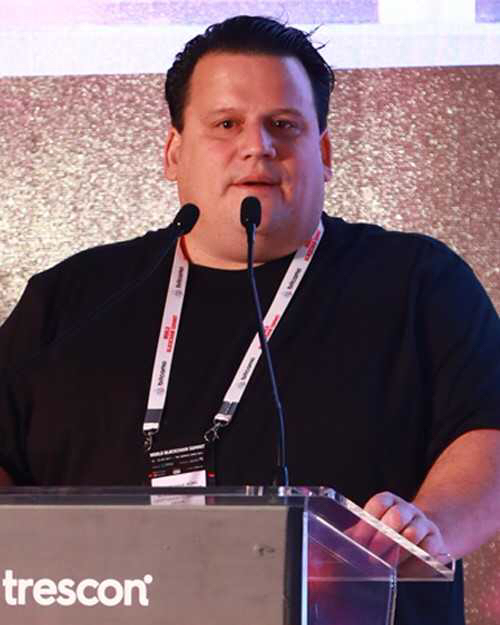
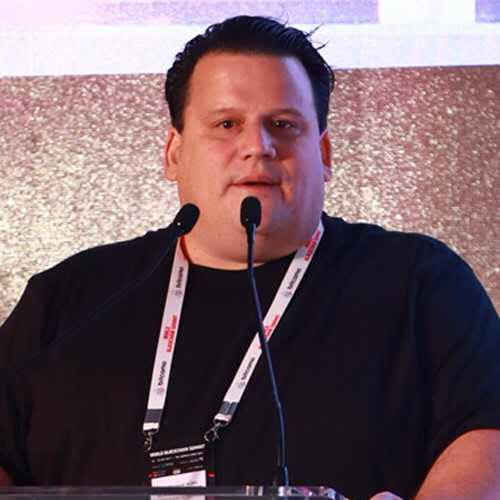
Adjusting bio images for consistency, adding a default image

diff --git a/src/components/TeamPage/content/bios.js b/src/components/TeamPage/content/bios.js
@@ -21,7 +21,7 @@ export const en = {
         email: '',
         picture: '',
         title: '',
-        bio: 'Houwu is one of the creators behind Ethereum, and the author of the Obelisk whitepaper which sits at the heart of our decentralized Internet and currency. He was a formerly a researcher at Tsinghua University.',
+        bio: 'Houwu is one of the creators behind Ethereum, and the author of the Obelisk whitepaper which sits at the heart of our decentralized Internet and currency. He was formerly a researcher at Tsinghua University.',
       },
       {
         name: 'Steve Leonard',
@@ -106,16 +106,16 @@ export const en = {
       {
         name: 'Simon Hobbs',
         email: '',
-        picture: 'simon.png',
+        picture: 'simon.jpg',
         title: 'Co-Founder of Gamification Giant Ltd.',
         bio: 'Hobbs has 28 years of high-level technical experience in delivering complex, high-volume IT projects on time and on budget. He began his career as an engineer on missile guidance software, and later moved into financial services, leading IT projects for Barclays Home Finance Mortgage, Swiss Bank and Cedel Bank. Simon holds a BSc in computer science from the University of Hertfordshire.',
       },
       {
         name: 'Amaury Hernandez Aguila',
         email: '',
-        picture: 'amaury.png',
+        picture: 'amaury.jpg',
         title: 'CX Developer',
-        bio: 'Amaury Aguila is a computer systems engineer with an expertise in expertise in machine learning and data science. He holds a master’s degree in Computer Science, and is currently pursuing a doctoral degree in computer science.',
+        bio: 'Amaury Aguila is a computer systems engineer with an expertise in machine learning and data science. He holds a master’s degree in Computer Science, and is currently pursuing a doctoral degree in computer science.',
       },
       {
         name: 'Evan Lin',
@@ -139,7 +139,7 @@ export const en = {
       {
         name: 'Mike Doty',
         title: 'Co-Founder of Ark',
-        picture: 'mike.png',
+        picture: 'mike.jpg',
         bio: 'Mike Doty has over 25 years of experience in mechanical engineering and design, including manufacturing, design, analysis, testing, and systems integration. Doty holds a BS Degree in Engineering and Applied Science from the California Institute of Technology. He is a Certified Quality Engineer (CQE) and Certified Reliability Engineer (CRE).',
       },
       {
@@ -157,14 +157,14 @@ export const en = {
       {
         name: 'Dr. John Henry Clippinger',
         title: 'Chief Innovation Officer | Founder of Swytch.io | Founder of Tokencommons.org | Scientist at the MIT Media Lab',
-        picture: 'john.png',
+        picture: 'john.jpg',
         bio: 'John Henry Clippinger is currently a research scientist at the MIT Media Lab’s Human Dynamics Group. He is also Co-Founder and Executive Director of ID3. Previously, Dr. Clippinger was Founder and Co-director of The Law Lab at Harvard University. He is also a member of the eG8 Forum and the Global Leadership Telco Council and the Risk Analysis Network for the World Economic Forum.',
       },
       {
         name: 'Patrick Dai',
         title: 'Founder and CEO of Qtum',
         picture: 'patrick.jpg',
-        bio: 'Founder and CEO of Qtum Dai graduated from Draper University and departed from the Chinese Academy of Sciences before completing the doctoral program. Patrick formerly worked at Alibaba. He has expertise in blockchain technology development and remains committed to its advancement.',
+        bio: 'Dai graduated from Draper University and departed from the Chinese Academy of Sciences before completing the doctoral program. Patrick formerly worked at Alibaba. He has expertise in blockchain technology development and remains committed to its advancement.',
       },
       {
         name: 'Josh Ogle',
@@ -181,13 +181,13 @@ export const en = {
       {
         name: 'Alphabit',
         title: 'Digital Currency Fund',
-        picture: 'alphabit.png',
+        picture: 'alphabit.jpg',
         bio: 'Co-founded by Liam Robertson, a former currency trader at hedge fund Light Peak Capital in London, Alphabit is $300 million fund that operates as a cross between an open-ended mutual fund and a hedge fund. Alphabit’s previous investments include Videocoin and Stormx.',
       },
       {
         name: 'TokenKey',
         title: '',
-        picture: 'tokenkey.png',
+        picture: 'tokenkey.jpg',
         bio: 'TokenKey is an end-to-end solution for ICO and token launches.',
       },
     ],
@@ -217,7 +217,7 @@ export const zh = {
         email: '',
         picture: '',
         title: '',
-        bio: 'Houwu is one of the creators behind Ethereum, and the author of the Obelisk whitepaper which sits at the heart of our decentralized Internet and currency. He was a formerly a researcher at Tsinghua University.',
+        bio: 'Houwu is one of the creators behind Ethereum, and the author of the Obelisk whitepaper which sits at the heart of our decentralized Internet and currency. He was formerly a researcher at Tsinghua University.',
       },
       {
         name: 'Steve Leonard',
@@ -302,16 +302,16 @@ export const zh = {
       {
         name: 'Simon Hobbs',
         email: '',
-        picture: 'simon.png',
+        picture: 'simon.jpg',
         title: 'Co-Founder of Gamification Giant Ltd.',
         bio: 'Hobbs has 28 years of high-level technical experience in delivering complex, high-volume IT projects on time and on budget. He began his career as an engineer on missile guidance software, and later moved into financial services, leading IT projects for Barclays Home Finance Mortgage, Swiss Bank and Cedel Bank. Simon holds a BSc in computer science from the University of Hertfordshire.',
       },
       {
         name: 'Amaury Hernandez Aguila',
         email: '',
-        picture: 'amaury.png',
+        picture: 'amaury.jpg',
         title: 'CX Developer',
-        bio: 'Amaury Aguila is a computer systems engineer with an expertise in expertise in machine learning and data science. He holds a master’s degree in Computer Science, and is currently pursuing a doctoral degree in computer science.',
+        bio: 'Amaury Aguila is a computer systems engineer with an expertise in machine learning and data science. He holds a master’s degree in Computer Science, and is currently pursuing a doctoral degree in computer science.',
       },
       {
         name: 'Evan Lin',
@@ -335,7 +335,7 @@ export const zh = {
       {
         name: 'Mike Doty',
         title: 'Co-Founder of Ark',
-        picture: 'mike.png',
+        picture: 'mike.jpg',
         bio: 'Mike Doty has over 25 years of experience in mechanical engineering and design, including manufacturing, design, analysis, testing, and systems integration. Doty holds a BS Degree in Engineering and Applied Science from the California Institute of Technology. He is a Certified Quality Engineer (CQE) and Certified Reliability Engineer (CRE).',
       },
       {
@@ -353,14 +353,14 @@ export const zh = {
       {
         name: 'Dr. John Henry Clippinger',
         title: 'Chief Innovation Officer | Founder of Swytch.io | Founder of Tokencommons.org | Scientist at the MIT Media Lab',
-        picture: 'john.png',
+        picture: 'john.jpg',
         bio: 'John Henry Clippinger is currently a research scientist at the MIT Media Lab’s Human Dynamics Group. He is also Co-Founder and Executive Director of ID3. Previously, Dr. Clippinger was Founder and Co-director of The Law Lab at Harvard University. He is also a member of the eG8 Forum and the Global Leadership Telco Council and the Risk Analysis Network for the World Economic Forum.',
       },
       {
         name: 'Patrick Dai',
         title: 'Founder and CEO of Qtum',
         picture: 'patrick.jpg',
-        bio: 'Founder and CEO of Qtum Dai graduated from Draper University and departed from the Chinese Academy of Sciences before completing the doctoral program. Patrick formerly worked at Alibaba. He has expertise in blockchain technology development and remains committed to its advancement.',
+        bio: 'Dai graduated from Draper University and departed from the Chinese Academy of Sciences before completing the doctoral program. Patrick formerly worked at Alibaba. He has expertise in blockchain technology development and remains committed to its advancement.',
       },
       {
         name: 'Josh Ogle',
@@ -377,13 +377,13 @@ export const zh = {
       {
         name: 'Alphabit',
         title: 'Digital Currency Fund',
-        picture: 'alphabit.png',
+        picture: 'alphabit.jpg',
         bio: 'Co-founded by Liam Robertson, a former currency trader at hedge fund Light Peak Capital in London, Alphabit is $300 million fund that operates as a cross between an open-ended mutual fund and a hedge fund. Alphabit’s previous investments include Videocoin and Stormx.',
       },
       {
         name: 'TokenKey',
         title: '',
-        picture: 'tokenkey.png',
+        picture: 'tokenkey.jpg',
         bio: 'TokenKey is an end-to-end solution for ICO and token launches.',
       },
     ],
@@ -413,7 +413,7 @@ export const ru = {
         email: '',
         picture: '',
         title: '',
-        bio: 'Houwu is one of the creators behind Ethereum, and the author of the Obelisk whitepaper which sits at the heart of our decentralized Internet and currency. He was a formerly a researcher at Tsinghua University.',
+        bio: 'Houwu is one of the creators behind Ethereum, and the author of the Obelisk whitepaper which sits at the heart of our decentralized Internet and currency. He was formerly a researcher at Tsinghua University.',
       },
       {
         name: 'Steve Leonard',
@@ -498,16 +498,16 @@ export const ru = {
       {
         name: 'Simon Hobbs',
         email: '',
-        picture: 'simon.png',
+        picture: 'simon.jpg',
         title: 'Co-Founder of Gamification Giant Ltd.',
         bio: 'Hobbs has 28 years of high-level technical experience in delivering complex, high-volume IT projects on time and on budget. He began his career as an engineer on missile guidance software, and later moved into financial services, leading IT projects for Barclays Home Finance Mortgage, Swiss Bank and Cedel Bank. Simon holds a BSc in computer science from the University of Hertfordshire.',
       },
       {
         name: 'Amaury Hernandez Aguila',
         email: '',
-        picture: 'amaury.png',
+        picture: 'amaury.jpg',
         title: 'CX Developer',
-        bio: 'Amaury Aguila is a computer systems engineer with an expertise in expertise in machine learning and data science. He holds a master’s degree in Computer Science, and is currently pursuing a doctoral degree in computer science.',
+        bio: 'Amaury Aguila is a computer systems engineer with an expertise in machine learning and data science. He holds a master’s degree in Computer Science, and is currently pursuing a doctoral degree in computer science.',
       },
       {
         name: 'Evan Lin',
@@ -531,7 +531,7 @@ export const ru = {
       {
         name: 'Mike Doty',
         title: 'Co-Founder of Ark',
-        picture: 'mike.png',
+        picture: 'mike.jpg',
         bio: 'Mike Doty has over 25 years of experience in mechanical engineering and design, including manufacturing, design, analysis, testing, and systems integration. Doty holds a BS Degree in Engineering and Applied Science from the California Institute of Technology. He is a Certified Quality Engineer (CQE) and Certified Reliability Engineer (CRE).',
       },
       {
@@ -549,14 +549,14 @@ export const ru = {
       {
         name: 'Dr. John Henry Clippinger',
         title: 'Chief Innovation Officer | Founder of Swytch.io | Founder of Tokencommons.org | Scientist at the MIT Media Lab',
-        picture: 'john.png',
+        picture: 'john.jpg',
         bio: 'John Henry Clippinger is currently a research scientist at the MIT Media Lab’s Human Dynamics Group. He is also Co-Founder and Executive Director of ID3. Previously, Dr. Clippinger was Founder and Co-director of The Law Lab at Harvard University. He is also a member of the eG8 Forum and the Global Leadership Telco Council and the Risk Analysis Network for the World Economic Forum.',
       },
       {
         name: 'Patrick Dai',
         title: 'Founder and CEO of Qtum',
         picture: 'patrick.jpg',
-        bio: 'Founder and CEO of Qtum Dai graduated from Draper University and departed from the Chinese Academy of Sciences before completing the doctoral program. Patrick formerly worked at Alibaba. He has expertise in blockchain technology development and remains committed to its advancement.',
+        bio: 'Dai graduated from Draper University and departed from the Chinese Academy of Sciences before completing the doctoral program. Patrick formerly worked at Alibaba. He has expertise in blockchain technology development and remains committed to its advancement.',
       },
       {
         name: 'Josh Ogle',
@@ -573,13 +573,13 @@ export const ru = {
       {
         name: 'Alphabit',
         title: 'Digital Currency Fund',
-        picture: 'alphabit.png',
+        picture: 'alphabit.jpg',
         bio: 'Co-founded by Liam Robertson, a former currency trader at hedge fund Light Peak Capital in London, Alphabit is $300 million fund that operates as a cross between an open-ended mutual fund and a hedge fund. Alphabit’s previous investments include Videocoin and Stormx.',
       },
       {
         name: 'TokenKey',
         title: '',
-        picture: 'tokenkey.png',
+        picture: 'tokenkey.jpg',
         bio: 'TokenKey is an end-to-end solution for ICO and token launches.',
       },
     ],
@@ -609,7 +609,7 @@ export const ko = {
         email: '',
         picture: '',
         title: '',
-        bio: 'Houwu is one of the creators behind Ethereum, and the author of the Obelisk whitepaper which sits at the heart of our decentralized Internet and currency. He was a formerly a researcher at Tsinghua University.',
+        bio: 'Houwu is one of the creators behind Ethereum, and the author of the Obelisk whitepaper which sits at the heart of our decentralized Internet and currency. He was formerly a researcher at Tsinghua University.',
       },
       {
         name: 'Steve Leonard',
@@ -694,16 +694,16 @@ export const ko = {
       {
         name: 'Simon Hobbs',
         email: '',
-        picture: 'simon.png',
+        picture: 'simon.jpg',
         title: 'Co-Founder of Gamification Giant Ltd.',
         bio: 'Hobbs has 28 years of high-level technical experience in delivering complex, high-volume IT projects on time and on budget. He began his career as an engineer on missile guidance software, and later moved into financial services, leading IT projects for Barclays Home Finance Mortgage, Swiss Bank and Cedel Bank. Simon holds a BSc in computer science from the University of Hertfordshire.',
       },
       {
         name: 'Amaury Hernandez Aguila',
         email: '',
-        picture: 'amaury.png',
+        picture: 'amaury.jpg',
         title: 'CX Developer',
-        bio: 'Amaury Aguila is a computer systems engineer with an expertise in expertise in machine learning and data science. He holds a master’s degree in Computer Science, and is currently pursuing a doctoral degree in computer science.',
+        bio: 'Amaury Aguila is a computer systems engineer with an expertise in machine learning and data science. He holds a master’s degree in Computer Science, and is currently pursuing a doctoral degree in computer science.',
       },
       {
         name: 'Evan Lin',
@@ -727,7 +727,7 @@ export const ko = {
       {
         name: 'Mike Doty',
         title: 'Co-Founder of Ark',
-        picture: 'mike.png',
+        picture: 'mike.jpg',
         bio: 'Mike Doty has over 25 years of experience in mechanical engineering and design, including manufacturing, design, analysis, testing, and systems integration. Doty holds a BS Degree in Engineering and Applied Science from the California Institute of Technology. He is a Certified Quality Engineer (CQE) and Certified Reliability Engineer (CRE).',
       },
       {
@@ -745,14 +745,14 @@ export const ko = {
       {
         name: 'Dr. John Henry Clippinger',
         title: 'Chief Innovation Officer | Founder of Swytch.io | Founder of Tokencommons.org | Scientist at the MIT Media Lab',
-        picture: 'john.png',
+        picture: 'john.jpg',
         bio: 'John Henry Clippinger is currently a research scientist at the MIT Media Lab’s Human Dynamics Group. He is also Co-Founder and Executive Director of ID3. Previously, Dr. Clippinger was Founder and Co-director of The Law Lab at Harvard University. He is also a member of the eG8 Forum and the Global Leadership Telco Council and the Risk Analysis Network for the World Economic Forum.',
       },
       {
         name: 'Patrick Dai',
         title: 'Founder and CEO of Qtum',
         picture: 'patrick.jpg',
-        bio: 'Founder and CEO of Qtum Dai graduated from Draper University and departed from the Chinese Academy of Sciences before completing the doctoral program. Patrick formerly worked at Alibaba. He has expertise in blockchain technology development and remains committed to its advancement.',
+        bio: 'Dai graduated from Draper University and departed from the Chinese Academy of Sciences before completing the doctoral program. Patrick formerly worked at Alibaba. He has expertise in blockchain technology development and remains committed to its advancement.',
       },
       {
         name: 'Josh Ogle',
@@ -769,13 +769,13 @@ export const ko = {
       {
         name: 'Alphabit',
         title: 'Digital Currency Fund',
-        picture: 'alphabit.png',
+        picture: 'alphabit.jpg',
         bio: 'Co-founded by Liam Robertson, a former currency trader at hedge fund Light Peak Capital in London, Alphabit is $300 million fund that operates as a cross between an open-ended mutual fund and a hedge fund. Alphabit’s previous investments include Videocoin and Stormx.',
       },
       {
         name: 'TokenKey',
         title: '',
-        picture: 'tokenkey.png',
+        picture: 'tokenkey.jpg',
         bio: 'TokenKey is an end-to-end solution for ICO and token launches.',
       },
     ],

diff --git a/src/components/TeamPage/TeamPage.js b/src/components/TeamPage/TeamPage.js
@@ -35,14 +35,6 @@ const Img = styled.img`
   width: 100%;
 `;
 
-const NoImg = styled.div`
-  background: #eceef0;
-  height: 100%;
-  position: absolute;
-  top: 0;
-  width: 100%;
-`;
-
 const Title = styled.strong`
   display: block;
   font-family: ${FONT_FAMILIES.sansItalic};
@@ -51,6 +43,7 @@ const Title = styled.strong`
 
 const Bio = styled.p`
   font-family: ${FONT_FAMILIES.sans};
+  line-height: 1.8;
 `;
 
 const StyledBox = styled(Box)`
@@ -96,15 +89,15 @@ const TeamPage = ({ intl }) => (
                     {picture ?
                       /* eslint-disable */
                       <Img src={require(`./content/images/${picture}`)} alt={`Picture of ${name}`} /> :
+                      <Img src={require("./content/images/default.png")} alt="Anonymous team member" />
                       /* eslint-disable */
-                      <NoImg />
                     }
                   </ImageContainer>
                 </StyledBox>
                 <StyledBox width={[1 / 1, 3 / 4]}>
                   <Heading heavy as="h2" fontSize={[3, 4]}>{name}</Heading>
-                  <Title>{title}</Title>
-                  <Bio>{bio}</Bio>
+                  {title && <Title>{title}</Title>}
+                  {bio && <Bio>{bio}</Bio>}
                 </StyledBox>
               </Flex>
             </Person>
@@ -121,16 +114,16 @@ const TeamPage = ({ intl }) => (
                   <ImageContainer>
                     {picture ?
                       /* eslint-disable */
-                      <Img src={require(`./content/images/${picture}`)} alt={`Picture of ${name}`} /> : // eslint-disable-line global-require
+                      <Img src={require(`./content/images/${picture}`)} alt={`Picture of ${name}`} /> :
+                      <Img src={require("./content/images/default.png")} alt="Anonymous team member" />
                       /* eslint-disable */
-                      <NoImg />
                     }
                   </ImageContainer>
                 </StyledBox>
                 <StyledBox width={[1 / 1, 3 / 4]}>
                   <Heading heavy as="h2" fontSize={[3, 4]}>{name}</Heading>
-                  <Title>{title}</Title>
-                  <Bio>{bio}</Bio>
+                  {title && <Title>{title}</Title>}
+                  {bio && <Bio>{bio}</Bio>}
                 </StyledBox>
               </Flex>
             </Person>
@@ -147,16 +140,16 @@ const TeamPage = ({ intl }) => (
                   <ImageContainer>
                     {picture ?
                       /* eslint-disable */
-                      <Img src={require(`./content/images/${picture}`)} alt={`Picture of ${name}`} /> : // eslint-disable-line global-require
+                      <Img src={require(`./content/images/${picture}`)} alt={`Picture of ${name}`} /> :
+                      <Img src={require("./content/images/default.png")} alt="Anonymous team member" />
                       /* eslint-disable */
-                      <NoImg />
                     }
                   </ImageContainer>
                 </StyledBox>
                 <StyledBox width={[1 / 1, 3 / 4]}>
                   <Heading heavy as="h2" fontSize={[3, 4]}>{name}</Heading>
-                  <Title>{title}</Title>
-                  <Bio>{bio}</Bio>
+                  {title && <Title>{title}</Title>}
+                  {bio && <Bio>{bio}</Bio>}
                 </StyledBox>
               </Flex>
             </Person>
@@ -173,16 +166,16 @@ const TeamPage = ({ intl }) => (
                   <ImageContainer>
                     {picture ?
                       /* eslint-disable */
-                      <Img src={require(`./content/images/${picture}`)} alt={`Picture of ${name}`} /> : // eslint-disable-line global-require
+                      <Img src={require(`./content/images/${picture}`)} alt={`Picture of ${name}`} /> :
+                      <Img src={require("./content/images/default.png")} alt="Anonymous team member" />
                       /* eslint-disable */
-                      <NoImg />
                     }
                   </ImageContainer>
                 </StyledBox>
                 <StyledBox width={[1 / 1, 3 / 4]}>
                   <Heading heavy as="h2" fontSize={[3, 4]}>{name}</Heading>
-                  <Title>{title}</Title>
-                  <Bio>{bio}</Bio>
+                  {title && <Title>{title}</Title>}
+                  {bio && <Bio>{bio}</Bio>}
                 </StyledBox>
               </Flex>
             </Person>
